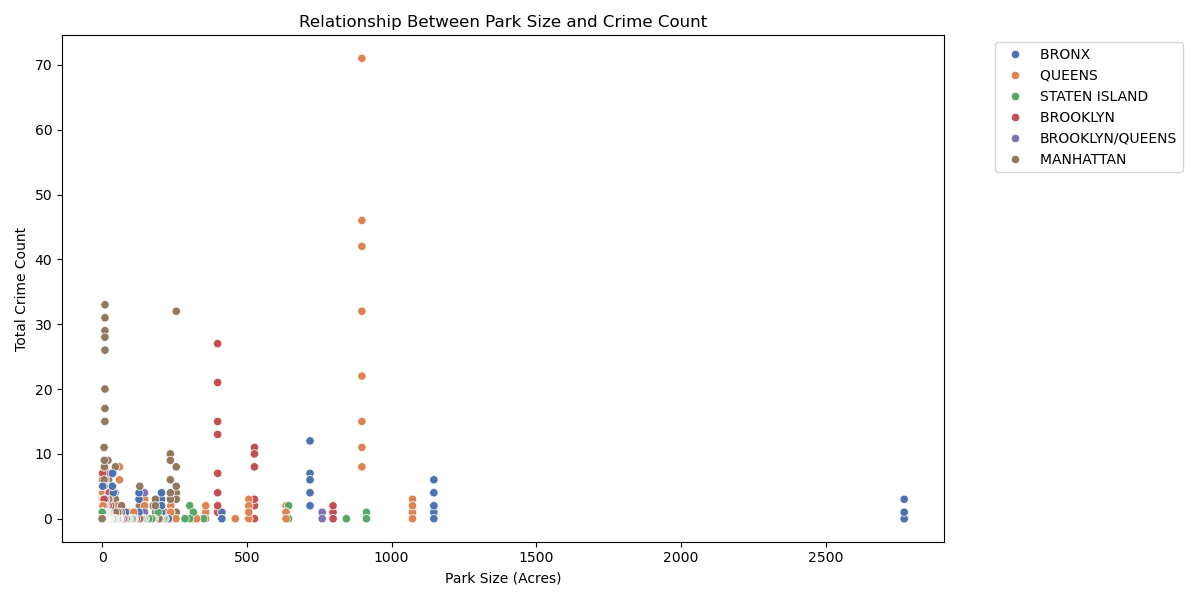
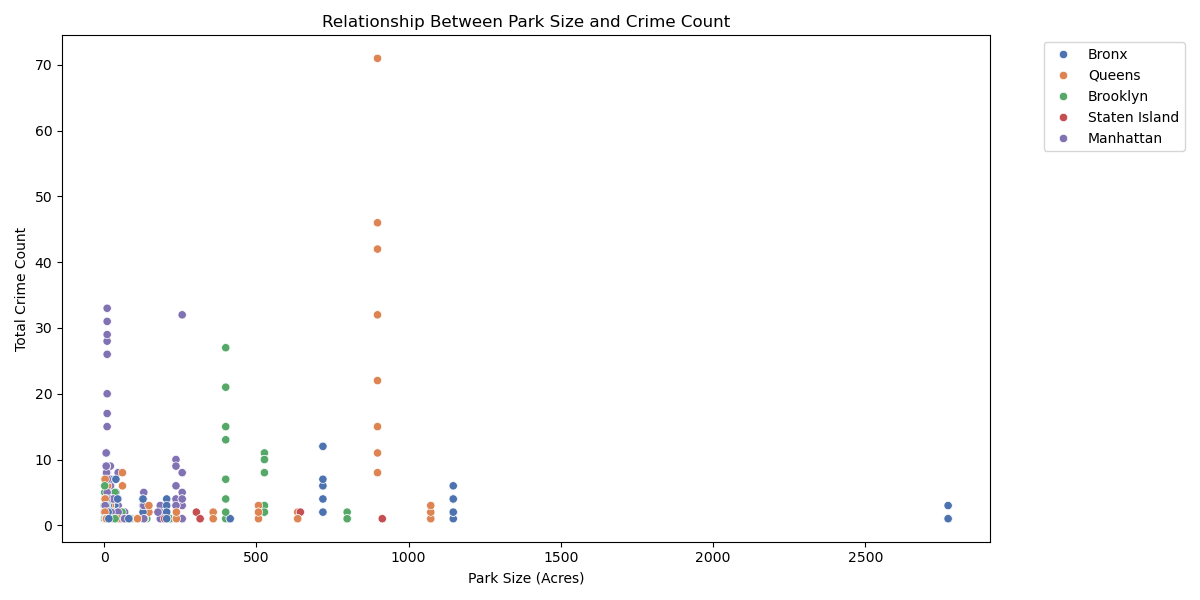
outliers for fig 4

diff --git a/staticVisualizations.html b/staticVisualizations.html
@@ -360,6 +360,17 @@
              This analysis helps urban planners understand that size alone is not deterministic of park safety, and that design elements and location context must be considered in security planning.
           </p>
 
+          <h3 class="columnText">Interpreting Outliers</h3>
+          <p class="columnText">
+            While the scatter plot shows a general trend where larger parks tend to have more crime incidents,
+            several outliers suggest that size is not the only factor. We identified outliers as having over 40 in crime counts and 1000 acres in size. They are also annotated in red. For example:
+            <ul class="columnText" >
+              <li><strong>Large parks with low crime</strong> may benefit from less foot traffic, better surveillance, or isolated locations.</li>
+              <li><strong>Small parks with high crime counts</strong> — especially in densely populated boroughs like Manhattan — likely reflect high usage, central locations, or limited visibility.</li>
+            </ul>
+            <p class="columnText" >These deviations indicate that crime in parks is influenced not just by area but also by social, geographic, and environmental context.</p>
+          </p>
+
 
         </div>
       </div>
@@ -367,7 +378,7 @@
       <!-- Column 2 -->
       <div class="column">
         <img
-          src="pc_parksize_vs_crime.png"
+          src="parksize_vs_crime_annotated.png"
         />
         <p class="photoCaption">
           Scatter plot analyzing the relationship between park size (acres) and total crime count.
